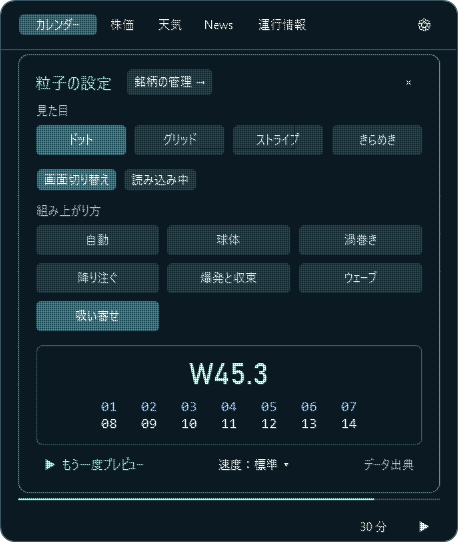
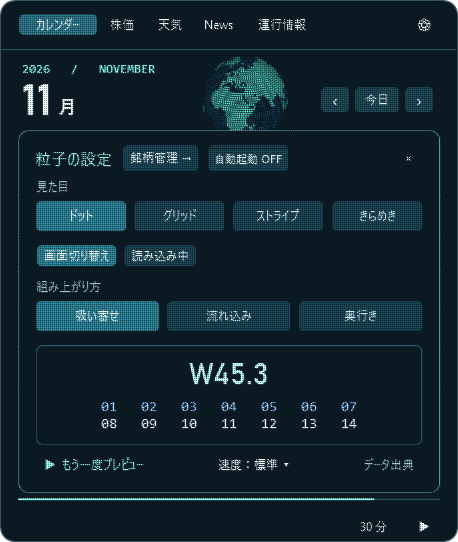
Clarify update alerts, fix clock menu and add direct glyph assembly motions

Changed region(s): [[0.0306, 0.0886, 0.9476, 0.6199]]

diff --git a/src/Calendar.xaml b/src/Calendar.xaml
@@ -148,13 +148,13 @@
               Background="#102835" BorderBrush="#528793" BorderThickness="1" CornerRadius="10" Padding="13" Visibility="Collapsed">
         <StackPanel>
           <Grid Margin="3,0,3,7">
-            <StackPanel Orientation="Horizontal"><TextBlock Text="粒子の設定" FontSize="16" Foreground="#8FE4DD" VerticalAlignment="Center"/><Button Name="SettingsMarkets" Content="銘柄の管理 →" Margin="14,0,0,0" Background="#193B48"/><Button Name="StartupToggle" Content="自動起動 OFF" FontSize="11" Padding="6,3" Margin="8,0,0,0" Background="#193B48"/><Button Name="UpdateButton" Content="更新" FontSize="11" Padding="6,3" Margin="6,0,0,0" Background="#287181" ToolTip="アプリの更新" Visibility="Collapsed"/></StackPanel>
+            <StackPanel Orientation="Horizontal"><TextBlock Text="粒子の設定" FontSize="16" Foreground="#8FE4DD" VerticalAlignment="Center"/><Button Name="SettingsMarkets" Content="銘柄管理 →" Margin="10,0,0,0" Background="#193B48"/><Button Name="StartupToggle" Content="自動起動 OFF" FontSize="11" Padding="6,3" Margin="8,0,0,0" Background="#193B48"/><Button Name="UpdateButton" Content="アプリ更新" FontSize="11" Padding="6,3" Margin="6,0,0,0" Background="#287181" ToolTip="Orbit Calendarを最新版に更新" Visibility="Collapsed"/></StackPanel>
             <Button Name="CloseSettingsPicker" AutomationProperties.Name="設定を閉じる" Content="×" Width="28" Height="28" HorizontalAlignment="Right"/>
           </Grid>
           <TextBlock Text="見た目" Foreground="#92B5BE" FontSize="12" Margin="4,0,0,3"/>
           <UniformGrid Name="PatternChoices" Columns="4"/>
           <StackPanel Orientation="Horizontal" Margin="4,9,4,3"><Button Name="SettingsTransition" Content="画面切り替え"/><Button Name="SettingsLoading" Content="読み込み中" Margin="6,0,0,0"/></StackPanel>
-          <Grid Height="256"><StackPanel Name="TransitionSettings">
+          <Grid Name="SettingsSection" Height="180"><StackPanel Name="TransitionSettings">
           <TextBlock Text="組み上がり方" Foreground="#92B5BE" FontSize="12" Margin="4,9,0,3"/>
           <UniformGrid Name="MotionChoices" Columns="3"/>
           <Border Name="PreviewArea" BorderBrush="#2A5965" BorderThickness="1" CornerRadius="6" Padding="12" Margin="4,10,4,3">
@@ -187,6 +187,7 @@
     </Grid>
     </Grid>
     <Grid Name="Effects" IsHitTestVisible="False" ClipToBounds="True"/>
+    <Grid IsHitTestVisible="False" RenderTransform="{Binding RenderTransform, ElementName=ShellSurface}" RenderTransformOrigin="{Binding RenderTransformOrigin, ElementName=ShellSurface}"><Ellipse Name="AppUpdateBadge" Width="7" Height="7" Fill="#FFD65B" Stroke="#0B1923" StrokeThickness="1" HorizontalAlignment="Right" VerticalAlignment="Top" Margin="0,12,18,0" Visibility="Collapsed" IsHitTestVisible="False"/></Grid>
     <Border Name="PlaceConfirm" Width="400" Height="74" HorizontalAlignment="Center" VerticalAlignment="Bottom" Background="#102835" Padding="7" BorderThickness="1" BorderBrush="#528793" CornerRadius="6" Margin="0,0,0,51" Visibility="Collapsed">
       <Grid><Grid.RowDefinitions><RowDefinition Height="28"/><RowDefinition Height="25"/></Grid.RowDefinitions>
         <Grid><Grid.ColumnDefinitions><ColumnDefinition Width="Auto"/><ColumnDefinition/></Grid.ColumnDefinitions>

diff --git a/src/AssemblyEffect.cs b/src/AssemblyEffect.cs
@@ -13,7 +13,7 @@ namespace OrbitCalendar
         {
             public Point Target, Origin, Current;
             public bool Edge, Moving;
-            public double Latitude, Longitude, Radius, Speed, Lag;
+            public double Longitude, Radius, Speed, Lag;
             public Color Ink;
         }
 
@@ -30,8 +30,7 @@ namespace OrbitCalendar
         double seconds;
         double timeScale = 1;
         bool assembling, morph, rendering, dirty;
-        int motionStyle, sequence;
-        const double Gather = 1.05;
+        int motionStyle;
 
         public AssemblyEffect(UIElement face, UIElement surface)
         {
@@ -104,7 +103,7 @@ namespace OrbitCalendar
         void Start(bool fromPrevious, Rect area, Rect[] regions = null)
         {
             timeScale = Preferences.AnimationScale;
-            motionStyle = Preferences.Motion == 0 ? (++sequence % 5) + 1 : Preferences.Motion;
+            motionStyle = Preferences.Motion >= 6 && Preferences.Motion <= 8 ? Preferences.Motion : 6;
             dirty = false;
             var previous = grains;
             var oldByPixel = new Dictionary<int, Grain>();
@@ -139,8 +138,6 @@ namespace OrbitCalendar
             for (int i = 0; i < grains.Length; i++)
             {
                 if (!grains[i].Moving) { grains[i].Current = grains[i].Target; continue; }
-                double lat = Math.Asin(2 * random.NextDouble() - 1);
-                grains[i].Latitude = i % 4 == 0 ? lat : Math.Round(lat * 16) / 16;
                 grains[i].Longitude = random.NextDouble() * 2 * Math.PI;
                 grains[i].Radius = i % 7 == 0 ? 102 + random.NextDouble() * 51 : 82 + random.NextDouble() * 3;
                 grains[i].Speed = i % 7 == 0 ? -2 : 2.5;
@@ -152,8 +149,14 @@ namespace OrbitCalendar
                     double spread = Math.Sqrt(-2 * Math.Log(Math.Max(1e-9, random.NextDouble()))) * 28;
                     grains[i].Origin = new Point(grains[i].Target.X * .28 + (face.RenderSize.Width - 38) * .72 + Math.Cos(angle) * spread,
                         grains[i].Target.Y * .28 + (face.RenderSize.Height - 7) * .72 + Math.Sin(angle) * spread);
+                    if (motionStyle == 7)
+                        grains[i].Origin = new Point(area.Left + random.NextDouble() * Math.Min(55, area.Width * .2),
+                            area.Top + (grains[i].Target.Y - area.Top) * .65 + Math.Sin(angle) * 24);
+                    else if (motionStyle == 8)
+                        grains[i].Origin = new Point(area.Left + area.Width * .5 + (grains[i].Target.X - area.Left - area.Width * .5) * .22 + Math.Cos(angle) * spread * .2,
+                            area.Top + area.Height * .5 + (grains[i].Target.Y - area.Top - area.Height * .5) * .22 + Math.Sin(angle) * spread * .2);
                 }
-                if (area.Width < face.RenderSize.Width && !morph)
+                if (area.Width < face.RenderSize.Width && !morph && motionStyle == 6)
                     grains[i].Origin = new Point(area.Right - 8 - random.NextDouble() * Math.Min(65, area.Width),
                         area.Bottom - 5 - random.NextDouble() * Math.Min(25, area.Height));
                 movingIndex++;
@@ -220,48 +223,29 @@ namespace OrbitCalendar
                     }
                     else
                     {
-                        double angle = g.Longitude + seconds * g.Speed;
-                        double ring = Math.Cos(g.Latitude) * g.Radius;
-                        double x = Math.Sin(angle) * ring, y = Math.Sin(g.Latitude) * g.Radius;
-                        double t = Ease((seconds - .38 - g.Lag) / Gather);
-                        double ox = .5 * w + .94 * x + .34 * y;
-                        double oy = .50 * h + .94 * y - .34 * x;
-                        if (motionStyle == 2)
+                        // Every grain follows its own destination from the first
+                        // frame, including transitions from the previous screen.
+                        double delay = (g.Edge ? .015 : .10) + g.Lag * .45;
+                        if (motionStyle == 7) delay += g.Target.X / Math.Max(1, w) * .16;
+                        double duration = motionStyle == 7 ? .91 : 1.12;
+                        double progress = Math.Max(0, Math.Min(1, (seconds - delay) / duration));
+                        double t = motionStyle == 7 ? 1 - Math.Pow(1 - progress, 3) : Ease(progress);
+                        var displacement = g.Target - g.Origin;
+                        double length = Math.Max(1, displacement.Length);
+                        double curve = Math.Sin(Math.PI * t) * Math.Min(48, length * .20);
+                        if (motionStyle == 7)
                         {
-                            double spiral = g.Longitude + seconds * (3 + g.Lag * 8);
-                            double radius = 35 + Math.Abs(g.Latitude) * 175;
-                            ox = w * .5 + Math.Cos(spiral) * radius;
-                            oy = h * .5 + Math.Sin(spiral) * radius;
+                            px = g.Origin.X + displacement.X * t - displacement.Y / length * curve;
+                            py = g.Origin.Y + displacement.Y * t + displacement.X / length * curve;
                         }
-                        else if (motionStyle == 3)
+                        else
                         {
-                            ox = (g.Longitude / (2 * Math.PI)) * w;
-                            oy = ((seconds * 280 + g.Latitude * h * 2) % (h + 180)) - 120;
+                            double drift = Math.Sin(Math.PI * progress) * (1 - progress) * 9;
+                            px = g.Origin.X + displacement.X * t + Math.Cos(g.Longitude) * drift;
+                            py = g.Origin.Y + displacement.Y * t + Math.Sin(g.Longitude) * drift;
+                            double light = .28 + .72 * t;
+                            red = (int)(red * light); green = (int)(green * light); blue = (int)(blue * light);
                         }
-                        else if (motionStyle == 4)
-                        {
-                            double radius = 50 + seconds * 240;
-                            ox = w * .5 + Math.Cos(g.Longitude) * radius;
-                            oy = h * .5 + Math.Sin(g.Longitude) * radius;
-                        }
-                        else if (motionStyle == 5)
-                        {
-                            ox = g.Longitude / (2 * Math.PI) * w;
-                            oy = h * .5 + Math.Sin(ox / 47 + seconds * 5) * (55 + Math.Abs(g.Latitude) * 100);
-                        }
-                        if (morph)
-                        {
-                            double scatter = Ease(seconds / .35);
-                            ox = g.Origin.X + (ox - g.Origin.X) * scatter;
-                            oy = g.Origin.Y + (oy - g.Origin.Y) * scatter;
-                        }
-                        double curl = Math.Sin(t * Math.PI) * 24;
-                        px = ox + (px - ox) * t + Math.Sin(angle) * curl;
-                        py = oy + (py - oy) * t + Math.Cos(angle) * curl;
-                        double light = .63 + .32 * Math.Cos(angle) * ring / g.Radius;
-                        red = (int)(29 * light * (1 - t) + red * t);
-                        green = (int)(235 * light * (1 - t) + green * t);
-                        blue = (int)(248 * light * (1 - t) + blue * t);
                     }
                 }
                 else if (Closing)

diff --git a/tools/ClockMenuFixture.cs b/tools/ClockMenuFixture.cs
@@ -1,0 +1,93 @@
+using System;
+using System.IO;
+using System.Linq;
+using System.Reflection;
+using System.Threading.Tasks;
+using System.Windows;
+using System.Windows.Controls;
+using System.Windows.Interop;
+using System.Windows.Media;
+using Forms = System.Windows.Forms;
+
+// A WPF-owned native parent reproduces the taskbar clock's lack of a managed
+// WinForms parent. It is safe to click without touching Explorer or user settings.
+internal static class ClockMenuFixture
+{
+    [STAThread]
+    static void Main(string[] args)
+    {
+        try { Run(args); }
+        catch (Exception ex) { File.WriteAllText(Path.Combine(AppDomain.CurrentDomain.BaseDirectory, "ClockMenuFixture.error.txt"), ex.ToString()); Environment.ExitCode = 1; }
+    }
+    static void Run(string[] args)
+    {
+        var assembly = Assembly.LoadFrom(Path.GetFullPath(args[0]));
+        var sf = BindingFlags.Static | BindingFlags.Public | BindingFlags.NonPublic;
+        var instance = BindingFlags.Instance | BindingFlags.Public | BindingFlags.NonPublic;
+        string folder = Path.Combine(Path.GetTempPath(), "orbit-clock-fixture-" + Guid.NewGuid().ToString("N"));
+        Directory.CreateDirectory(folder);
+        foreach (var pair in new[] { new[] { "Preferences", "display.txt" }, new[] { "SavedPlace", "location.txt" }, new[] { "Watchlist", "watchlist.json" }, new[] { "MapScale", "map-zoom.txt" } })
+            assembly.GetType("OrbitCalendar." + pair[0]).GetField("path", sf).SetValue(null, Path.Combine(folder, pair[1]));
+        var prefs = assembly.GetType("OrbitCalendar.Preferences"); prefs.GetField("LastTab", sf).SetValue(null, 0);
+        var place = assembly.GetType("OrbitCalendar.SavedPlace"); place.GetMethod("Load", sf).Invoke(null, null);
+        place.GetMethod("Add", sf).Invoke(null, new object[] { new System.Device.Location.GeoCoordinate(35.4547, 139.6024), "天王町駅", 9 });
+        var app = new Application { ShutdownMode = ShutdownMode.OnMainWindowClose };
+        var shellType = assembly.GetType("OrbitCalendar.Shell");
+        using (var shell = (IDisposable)Activator.CreateInstance(shellType, instance, null, new object[] { false }, null))
+        {
+            var panel = (Window)shellType.GetField("panel", instance).GetValue(shell);
+            panel.Title = "Orbit Calendar · 手動更新の動作確認";
+            var menu = (Forms.ContextMenuStrip)shellType.GetField("menu", instance).GetValue(shell);
+            string log = Path.Combine(AppDomain.CurrentDomain.BaseDirectory, "ClockMenuFixture.events.txt");
+            menu.Opened += delegate { File.AppendAllText(log, "opened\r\n"); };
+            menu.ItemClicked += delegate(object sender, Forms.ToolStripItemClickedEventArgs e) { File.AppendAllText(log, "clicked: " + e.ClickedItem.Text + "\r\n"); };
+            menu.Closed += delegate(object sender, Forms.ToolStripDropDownClosedEventArgs e) { File.AppendAllText(log, "closed: " + e.CloseReason + "\r\n"); };
+            panel.IsVisibleChanged += delegate { File.AppendAllText(log, "panel visible: " + panel.IsVisible + "\r\n"); };
+            var host = new Window { Title = "Orbit Calendar · 時計右クリック検証", Width = 460, Height = 220, WindowStartupLocation = WindowStartupLocation.CenterScreen, Background = new SolidColorBrush(Color.FromRgb(11, 25, 35)) };
+            var body = new StackPanel { Margin = new Thickness(24) };
+            body.Children.Add(new TextBlock { Text = "下の日時を右クリックしてください", FontSize = 19, Foreground = Brushes.White });
+            body.Children.Add(new TextBlock { Text = "タスクバーと同じ時計コントロールです", Margin = new Thickness(0, 8, 0, 12), Foreground = Brushes.LightSeaGreen });
+            body.Children.Add(new TextBlock { Text = "22:45\n2026/11/04", FontSize = 18, Foreground = Brushes.White }); host.Content = body;
+            Forms.Control clock = null;
+            host.SourceInitialized += delegate
+            {
+                Action open = delegate { shellType.GetMethod("Open").Invoke(shell, null); };
+                clock = (Forms.Control)Activator.CreateInstance(assembly.GetType("OrbitCalendar.TaskbarClock"), instance, null, new object[] { new WindowInteropHelper(host).Handle, open, menu }, null);
+                var handle = clock.Handle; clock.Bounds = new System.Drawing.Rectangle(20, 83, 200, 80);
+            };
+            host.Closed += delegate { if (clock != null) clock.Dispose(); };
+            if (Array.IndexOf(args, "--verify") >= 0) host.Loaded += async delegate
+            {
+                try
+                {
+                    clock.Capture = true;
+                    var message = Forms.Message.Create(clock.Handle, 0x205, IntPtr.Zero, IntPtr.Zero);
+                    var parameters = new object[] { message };
+                    clock.GetType().GetMethod("WndProc", instance).Invoke(clock, parameters);
+                    await Task.Delay(100);
+                    if (!menu.Visible || clock.Capture) throw new Exception("Clock popup missing or clock still holds mouse capture");
+                    var check = menu.Items.OfType<Forms.ToolStripMenuItem>().Single(item => item.Text == "アプリの更新を確認…");
+                    check.PerformClick();
+                    var root = (Grid)((System.Windows.Controls.Viewbox)panel.Content).Child;
+                    var deadline = DateTime.UtcNow.AddSeconds(30);
+                    while (panel.GetType().GetField("updateRequest", instance).GetValue(panel) != null)
+                    {
+                        if (DateTime.UtcNow > deadline) throw new Exception("Manual update check timeout");
+                        await Task.Delay(50);
+                    }
+                    if (!panel.IsVisible || ((Border)root.FindName("UpdatePicker")).Visibility != Visibility.Visible) throw new Exception("Manual update page not shown");
+                    string status = ((TextBlock)root.FindName("UpdateStatus")).Text;
+                    if (status != "最新版を使用しています") throw new Exception("Unexpected update status: " + status);
+                    File.WriteAllText(Path.Combine(AppDomain.CurrentDomain.BaseDirectory, "ClockMenuFixture.pass.txt"), "PASS: embedded-clock right click, capture release, app update menu command, update screen and live version check");
+                    app.Shutdown(0);
+                }
+                catch (Exception ex)
+                {
+                    File.WriteAllText(Path.Combine(AppDomain.CurrentDomain.BaseDirectory, "ClockMenuFixture.error.txt"), ex.ToString()); app.Shutdown(1);
+                }
+            };
+            Console.WriteLine(folder);
+            app.Run(host);
+        }
+    }
+}

diff --git a/src/Controls.cs b/src/Controls.cs
@@ -24,7 +24,8 @@ namespace OrbitCalendar
                 var parts = File.ReadAllLines(path);
                 int value;
                 if (parts.Length > 0 && int.TryParse(parts[0], out value) && value >= 0 && value < 4) Pattern = value;
-                if (parts.Length > 1 && int.TryParse(parts[1], out value) && value >= 0 && value < 7) Motion = value;
+                // Removed legacy effects migrate to attraction; retain its old ID.
+                if (parts.Length > 1 && int.TryParse(parts[1], out value) && value >= 6 && value <= 8) Motion = value;
                 if (parts.Length > 2 && int.TryParse(parts[2], out value) && value >= 1 && value <= 180) Minutes = value;
                 if (parts.Length > 3 && int.TryParse(parts[3], out value) && value >= 0 && value <= 4) LastTab = value;
                 if (parts.Length > 4 && int.TryParse(parts[4], out value) && value >= 0 && value < 6) LoadingStyle = value;
@@ -145,10 +146,10 @@ namespace OrbitCalendar
                 Preferences.Pattern = value;
                 PreviewSetting();
             });
-            FillChoices("MotionChoices", new[] { "自動", "球体", "渦巻き", "降り注ぐ", "爆発と収束", "ウェーブ", "吸い寄せ" },
-                Preferences.Motion, delegate(int value)
+            FillChoices("MotionChoices", new[] { "吸い寄せ", "流れ込み", "奥行き" },
+                Preferences.Motion - 6, delegate(int value)
             {
-                Preferences.Motion = value;
+                Preferences.Motion = value + 6;
                 PreviewSetting();
             });
             FillChoices("LoadingChoices", new[] { "6本バー", "円形スピナー", "軌道リング", "ドットキューブ", "タイル組み替え", "ドットウェーブ" }, Preferences.LoadingStyle, delegate(int value)
@@ -161,6 +162,7 @@ namespace OrbitCalendar
         bool showLoadingSettings;
         void UpdateSettingsSection()
         {
+            Get<Grid>("SettingsSection").Height = showLoadingSettings ? 256 : 180;
             Get<StackPanel>("TransitionSettings").Visibility = showLoadingSettings ? Visibility.Collapsed : Visibility.Visible;
             Get<StackPanel>("LoadingSettings").Visibility = showLoadingSettings ? Visibility.Visible : Visibility.Collapsed;
             Get<Button>("SettingsTransition").Background = Art.Ink(showLoadingSettings ? "#193B48" : "#287181");

diff --git a/src/TaskbarClock.cs b/src/TaskbarClock.cs
@@ -13,6 +13,7 @@ namespace OrbitCalendar
     internal sealed class TaskbarClock : Forms.Control
     {
         readonly IntPtr taskbar;
+        readonly Forms.ContextMenuStrip menu;
         [DllImport("user32.dll")] static extern bool SetLayeredWindowAttributes(IntPtr hwnd, uint key, byte alpha, uint flags);
         protected override Forms.CreateParams CreateParams
         {
@@ -29,12 +30,37 @@ namespace OrbitCalendar
         internal TaskbarClock(IntPtr taskbar, Action toggle, Forms.ContextMenuStrip menu)
         {
             this.taskbar = taskbar;
+            this.menu = menu;
             AccessibleName = "Orbit Calendar タスクバー時計";
             AccessibleRole = Forms.AccessibleRole.PushButton;
-            ContextMenuStrip = menu;
             Cursor = Forms.Cursors.Hand;
             SetStyle(Forms.ControlStyles.StandardDoubleClick, false);
             MouseClick += delegate(object sender, Forms.MouseEventArgs e) { if (e.Button == Forms.MouseButtons.Left) toggle(); };
+        }
+
+        // Explorer is the native parent, so WinForms' implicit ContextMenuStrip
+        // routing cannot find an owning Form. Handle the right-button release
+        // directly and show an application-owned popup in screen coordinates.
+        protected override void WndProc(ref Forms.Message message)
+        {
+            if (message.Msg == 0x205) // RBUTTONUP
+            {
+                // Complete MouseUp first so the clock releases mouse capture;
+                // otherwise the first menu click is swallowed by the clock.
+                base.WndProc(ref message);
+                BeginInvoke(new Action(ShowClockMenu));
+                message.Result = IntPtr.Zero; return;
+            }
+            if (message.Msg == 0x7B) // CONTEXTMENU, including keyboard invocation
+            {
+                BeginInvoke(new Action(ShowClockMenu)); message.Result = IntPtr.Zero; return;
+            }
+            base.WndProc(ref message);
+        }
+        internal void ShowClockMenu()
+        {
+            if (IsDisposed || Disposing || !IsHandleCreated || menu == null || menu.IsDisposed || menu.Visible) return;
+            menu.Show(Forms.Cursor.Position);
         }
 
         // Let Explorer draw the date, time, and theme. Alpha 1 still accepts clicks.

diff --git a/src/Shell.cs b/src/Shell.cs
@@ -25,6 +25,9 @@ namespace OrbitCalendar
 
         internal Shell(bool integrateDesktop)
         {
+            // Forward WPF's message loop to the WinForms clock/tray popups too.
+            // Without this, a popup may appear but its clicks/keys are not routed.
+            System.Windows.Forms.Integration.WindowsFormsHost.EnableWindowsFormsInterop();
             panel = new CalendarPanel(Collapse, ToggleFocus);
             countdown = new ParticleTimer(Open);
             tray = new Forms.NotifyIcon { Icon = Icon.ExtractAssociatedIcon(System.Reflection.Assembly.GetExecutingAssembly().Location),
@@ -38,7 +41,7 @@ namespace OrbitCalendar
                 catch (Exception ex) { if (!(ex is System.IO.IOException || ex is UnauthorizedAccessException || ex is System.Security.SecurityException)) throw; tray.ShowBalloonTip(4000, "Orbit Calendar", "自動起動を保存できませんでした。もう一度お試しください", Forms.ToolTipIcon.Warning); }
             };
             menu.Items.Add(startup); menu.Opening += delegate { startup.Checked = StartupRegistration.Enabled; };
-            menu.Items.Add("更新を確認…", null, delegate { Open(); panel.OpenUpdates(); });
+            menu.Items.Add("アプリの更新を確認…", null, delegate { Open(); panel.OpenUpdates(); });
             menu.Items.Add(new Forms.ToolStripSeparator());
             menu.Items.Add("Orbit Calendar を終了", null, delegate { Application.Current.Shutdown(); });
             panel.Closing += delegate(object sender, System.ComponentModel.CancelEventArgs e)

diff --git a/src/UpdateControls.cs b/src/UpdateControls.cs
@@ -37,9 +37,12 @@ namespace OrbitCalendar
             var button = Get<Button>("UpdateButton");
             button.Visibility = newer ? Visibility.Visible : Visibility.Collapsed;
             button.ToolTip = newer ? "v" + release.Version.ToString(3) + " に更新できます" : "アプリの更新";
+            Get<FrameworkElement>("AppUpdateBadge").Visibility = newer ? Visibility.Visible : Visibility.Collapsed;
+            Get<Button>("SettingsButton").ToolTip = newer ? "表示設定 · アプリ更新あり（v" + release.Version.ToString(3) + "）" : "表示設定";
+            System.Windows.Automation.AutomationProperties.SetName(Get<Button>("SettingsButton"), newer ? "表示設定（アプリ更新あり）" : "表示設定");
             // Refresh queues a capture if particles are still assembling; a partial
             // refresh would otherwise miss a notice arriving during the opening.
-            if (IsVisible && Get<Border>("SettingsPicker").Visibility == Visibility.Visible) effect.Refresh();
+            if (IsVisible) effect.Refresh();
         }
         internal async void OpenUpdates()
         {
